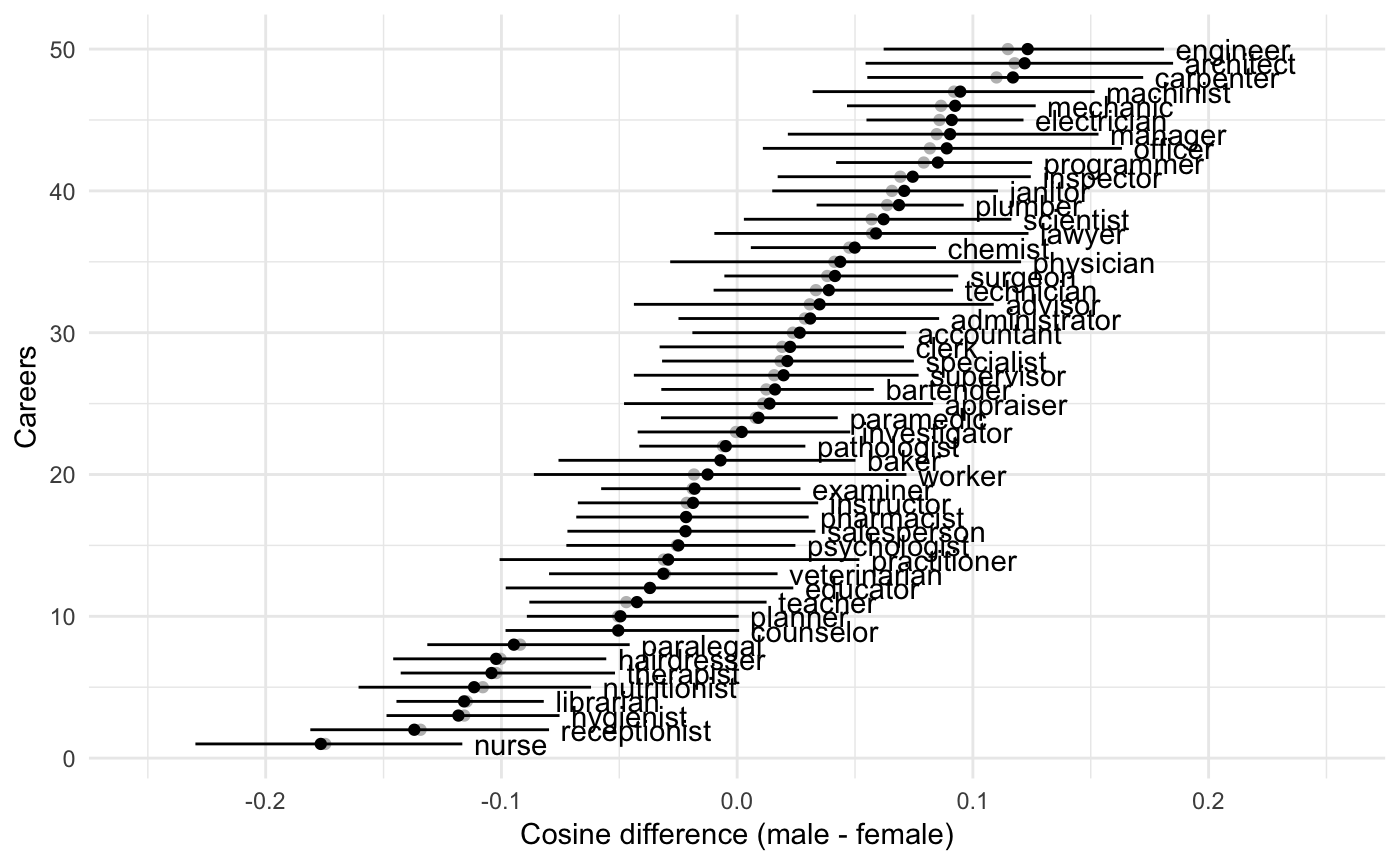
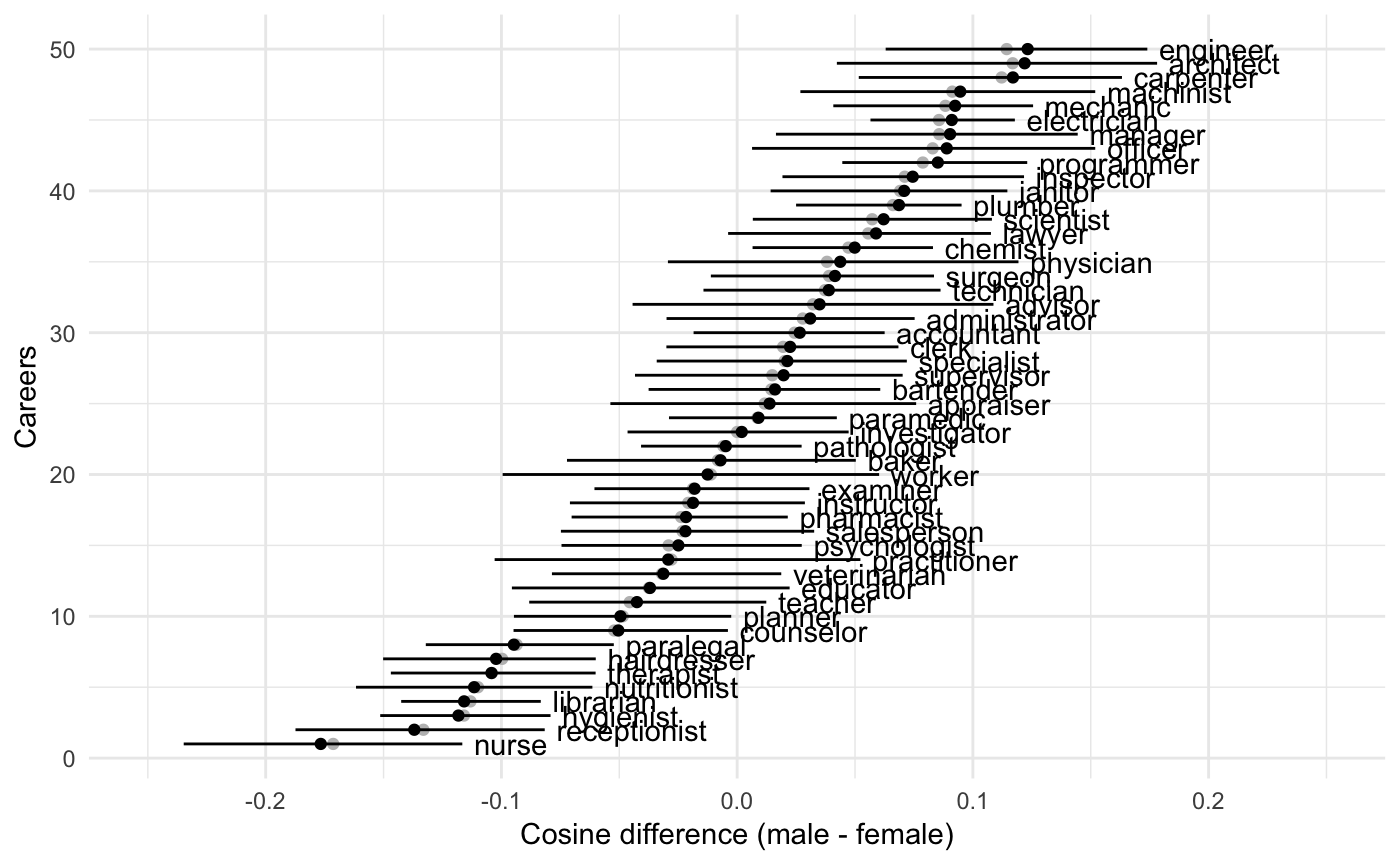
vignettes updated

diff --git a/docs/articles/replication_replication.html b/docs/articles/replication_replication.html
@@ -216,7 +216,7 @@ vecs &lt;-<span class="st"> </span><span class="kw"><a href="../reference/cbn_ge
 <span class="kw"><a href="../reference/weat_perm.html">weat_perm</a></span>(its, vecs, <span class="dt">x_name =</span> <span class="st">"Math"</span>, <span class="dt">y_name =</span> <span class="st">"Arts"</span>,
            <span class="dt">a_name =</span> <span class="st">"MaleTerms"</span>, <span class="dt">b_name =</span> <span class="st">"FemaleTerms"</span>, <span class="dv">1000</span>)
 <span class="co">#&gt;      S_xyab        d p_value</span>
-<span class="co">#&gt; 1 0.1989226 1.055015   0.018</span></code></pre></div>
+<span class="co">#&gt; 1 0.1989226 1.055015   0.022</span></code></pre></div>
 </div>
 <div id="science-vs-arts" class="section level3">
 <h3 class="hasAnchor">
@@ -233,7 +233,7 @@ vecs &lt;-<span class="st"> </span><span class="kw"><a href="../reference/cbn_ge
 <span class="kw"><a href="../reference/weat_perm.html">weat_perm</a></span>(its, vecs, <span class="dt">x_name =</span> <span class="st">"Science"</span>, <span class="dt">y_name =</span> <span class="st">"Arts"</span>, 
            <span class="dt">a_name =</span> <span class="st">"MaleTerms"</span>, <span class="dt">b_name =</span> <span class="st">"FemaleTerms"</span>, <span class="dv">1000</span>)
 <span class="co">#&gt;     S_xyab        d p_value</span>
-<span class="co">#&gt; 1 0.345604 1.237453   0.004</span></code></pre></div>
+<span class="co">#&gt; 1 0.345604 1.237453   0.006</span></code></pre></div>
 </div>
 <div id="mental-vs-physical-disease" class="section level3">
 <h3 class="hasAnchor">
@@ -250,7 +250,7 @@ vecs &lt;-<span class="st"> </span><span class="kw"><a href="../reference/cbn_ge
 <span class="kw"><a href="../reference/weat_perm.html">weat_perm</a></span>(its, vecs, <span class="dt">x_name =</span> <span class="st">"MentalDisease"</span>, <span class="dt">y_name =</span> <span class="st">"PhysicalDisease"</span>, 
           <span class="dt">a_name =</span> <span class="st">"Temporary"</span>, <span class="dt">b_name =</span> <span class="st">"Permanent"</span>, <span class="dv">1000</span>)
 <span class="co">#&gt;      S_xyab        d p_value</span>
-<span class="co">#&gt; 1 0.5051217 1.382755   0.001</span></code></pre></div>
+<span class="co">#&gt; 1 0.5051217 1.382755   0.004</span></code></pre></div>
 </div>
 <div id="mental-vs-physical-disease-1" class="section level3">
 <h3 class="hasAnchor">
@@ -267,7 +267,7 @@ vecs &lt;-<span class="st"> </span><span class="kw"><a href="../reference/cbn_ge
 <span class="kw"><a href="../reference/weat_perm.html">weat_perm</a></span>(its, vecs, <span class="dt">x_name =</span> <span class="st">"MentalDisease"</span>, <span class="dt">y_name =</span> <span class="st">"PhysicalDisease"</span>, 
           <span class="dt">a_name =</span> <span class="st">"Temporary"</span>, <span class="dt">b_name =</span> <span class="st">"Permanent"</span>, <span class="dv">1000</span>)
 <span class="co">#&gt;      S_xyab        d p_value</span>
-<span class="co">#&gt; 1 0.5051217 1.382755   0.002</span></code></pre></div>
+<span class="co">#&gt; 1 0.5051217 1.382755   0.006</span></code></pre></div>
 </div>
 <div id="young-vs-old-peoples-names" class="section level3">
 <h3 class="hasAnchor">
@@ -284,7 +284,7 @@ vecs &lt;-<span class="st"> </span><span class="kw"><a href="../reference/cbn_ge
 <span class="kw"><a href="../reference/weat_perm.html">weat_perm</a></span>(its, vecs, <span class="dt">x_name =</span> <span class="st">"YoungNames"</span>, <span class="dt">y_name =</span> <span class="st">"OldNames"</span>, 
           <span class="dt">a_name =</span> <span class="st">"Pleasant"</span>, <span class="dt">b_name =</span> <span class="st">"Unpleasant"</span>, <span class="dv">1000</span>)
 <span class="co">#&gt;      S_xyab        d p_value</span>
-<span class="co">#&gt; 1 0.3808673 1.212891   0.005</span></code></pre></div>
+<span class="co">#&gt; 1 0.3808673 1.212891   0.004</span></code></pre></div>
 </div>
 </div>
 <div id="wefat-figure-1" class="section level2">

diff --git a/docs/articles/alternative_statistics.html b/docs/articles/alternative_statistics.html
@@ -117,7 +117,7 @@ its_vecs &lt;-<span class="st"> </span><span class="kw"><a href="../reference/cb
                  <span class="dt">se.calc =</span> <span class="st">"quantile"</span>)
 res
 <span class="co">#&gt;        diff        lwr       upr    median</span>
-<span class="co">#&gt; 1 0.1547512 0.08724087 0.2105806 0.1481014</span></code></pre></div>
+<span class="co">#&gt; 1 0.1547512 0.08787219 0.2091178 0.1481398</span></code></pre></div>
 <p>Apparently flowers are more pleasant than insects.</p>
 </div>
 <div id="replicating-wefat" class="section level2">
@@ -132,12 +132,12 @@ its_vecs &lt;-<span class="st"> </span><span class="kw"><a href="../reference/cb
                   <span class="dt">se.calc =</span> <span class="st">"quantile"</span>)
 <span class="kw">head</span>(res)
 <span class="co">#&gt;        Careers       diff        lwr         upr     median</span>
-<span class="co">#&gt; 1        nurse -0.1766406 -0.2298179 -0.11658746 -0.1747572</span>
-<span class="co">#&gt; 2 receptionist -0.1369632 -0.1810730 -0.07979274 -0.1343161</span>
-<span class="co">#&gt; 3    hygienist -0.1182356 -0.1487452 -0.07534267 -0.1157604</span>
-<span class="co">#&gt; 4    librarian -0.1158335 -0.1445287 -0.08203122 -0.1146758</span>
-<span class="co">#&gt; 5 nutritionist -0.1115838 -0.1606020 -0.06198415 -0.1079001</span>
-<span class="co">#&gt; 6    therapist -0.1042064 -0.1427290 -0.05181135 -0.1021855</span></code></pre></div>
+<span class="co">#&gt; 1        nurse -0.1766406 -0.2347793 -0.11659004 -0.1713707</span>
+<span class="co">#&gt; 2 receptionist -0.1369632 -0.1873617 -0.08162812 -0.1331052</span>
+<span class="co">#&gt; 3    hygienist -0.1182356 -0.1514190 -0.07916550 -0.1158925</span>
+<span class="co">#&gt; 4    librarian -0.1158335 -0.1425213 -0.08330271 -0.1131277</span>
+<span class="co">#&gt; 5 nutritionist -0.1115838 -0.1616845 -0.06140949 -0.1099395</span>
+<span class="co">#&gt; 6    therapist -0.1042064 -0.1469076 -0.06003664 -0.1040616</span></code></pre></div>
 <p>This is a bit hard to interpret, so we’ll make a picture</p>
 <div class="sourceCode"><pre class="sourceCode r"><code class="sourceCode r"><span class="kw"><a href="http://www.rdocumentation.org/packages/ggplot2/topics/ggplot">ggplot</a></span>(res, <span class="kw"><a href="http://www.rdocumentation.org/packages/ggplot2/topics/aes">aes</a></span>(<span class="dt">x =</span> median, <span class="dt">y =</span> <span class="dv">1</span><span class="op">:</span><span class="kw">nrow</span>(res))) <span class="op">+</span>
 <span class="st">  </span><span class="kw"><a href="http://www.rdocumentation.org/packages/ggplot2/topics/geom_point">geom_point</a></span>(<span class="dt">col =</span> <span class="st">"grey"</span>) <span class="op">+</span>
